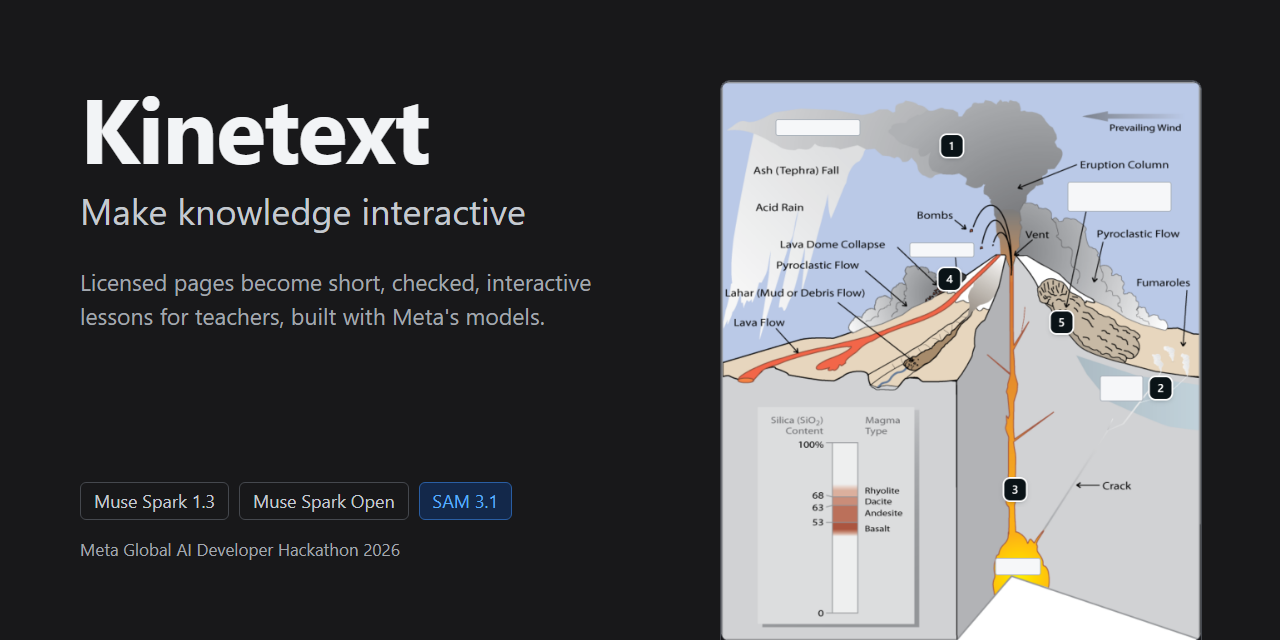
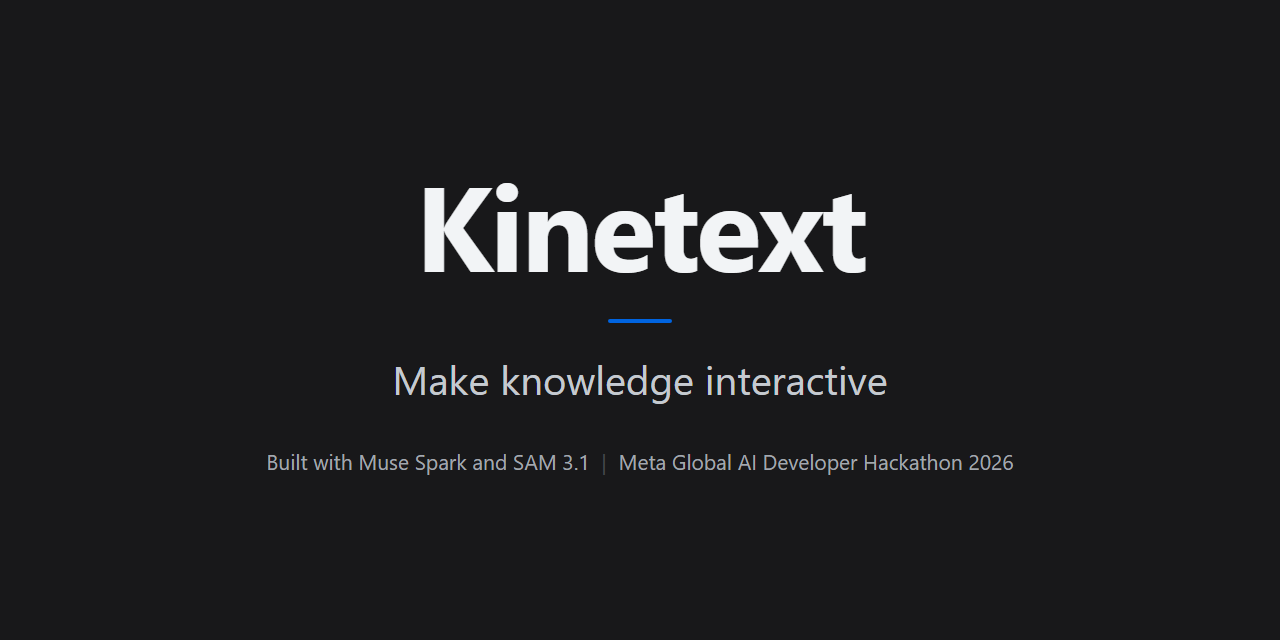
brand: simpler social preview card, name and tagline only

diff --git a/docs/brand/social-preview.html b/docs/brand/social-preview.html
@@ -5,50 +5,35 @@
 <title>Kinetext social preview (1280x640)</title>
 <!--
   GitHub social preview card. Render: headless Chrome at 1280x640 (see README in this folder).
-  Safe area: everything that matters sits inside an 80 px inset (GitHub's 40 pt guide at 2x), so no crop cuts it.
-  Colours and type are the app's own tokens (apps/web/src/styles.css, dark theme). The figure is a real capture of a
-  published lesson's Label the diagram part (USGS volcano hazards sketch, U.S. public domain, graphic by Bobbie Myers).
+  Safe area: everything sits inside an 80 px inset (GitHub's 40 pt guide at 2x), so no crop cuts it; ?guide shows it.
+  Colours and type are the app's own dark-theme tokens (apps/web/src/styles.css).
 -->
 <style>
   :root {
-    --chrome: #18181a; --panel: #1a1a1d; --panel-2: #26272a;
-    --ink: #f2f4f6; --ink-2: #c5cad0; --ink-3: #a3a8af;
-    --line: #2c2e32; --line-2: #45484e; --accent-text: #5aaefb; --accent-line: #2a5ea3; --accent-soft: #13284a;
+    --chrome: #18181a; --ink: #f2f4f6; --ink-2: #c5cad0; --ink-3: #a3a8af; --line-2: #45484e;
+    --accent: #0064e0;
     --font: system-ui, -apple-system, "Segoe UI", Helvetica, Arial, sans-serif;
   }
   html, body { margin: 0; width: 1280px; height: 640px; overflow: hidden; background: var(--chrome); }
   body { position: relative; font-family: var(--font); color: var(--ink); -webkit-font-smoothing: antialiased; }
-  .text { position: absolute; left: 80px; top: 80px; width: 600px; height: 480px; display: flex; flex-direction: column; }
-  .name { margin: 0; font-size: 92px; line-height: 1; font-weight: 700; letter-spacing: -0.02em; }
-  .tagline { margin: 18px 0 0; font-size: 36px; line-height: 1.15; font-weight: 400; color: var(--ink-2); }
-  .what { margin: 34px 0 0; font-size: 23px; line-height: 1.45; color: var(--ink-3); max-width: 560px; }
-  .models { margin: auto 0 0; display: flex; gap: 10px; flex-wrap: wrap; }
-  .chip { font-size: 18px; line-height: 1; padding: 9px 13px; border: 1px solid var(--line-2); border-radius: 6px; color: var(--ink-2); }
-  .chip.sam { border-color: var(--accent-line); background: var(--accent-soft); color: var(--accent-text); }
-  .event { margin: 18px 0 0; font-size: 17px; color: var(--ink-3); }
-  /* The figure: inside the safe area at the top, allowed to run off the bottom edge (decoration only there). */
-  .figure { position: absolute; left: 720px; top: 80px; width: 480px; height: 560px; overflow: hidden;
-    border: 1px solid var(--line-2); border-bottom: 0; border-radius: 10px 10px 0 0; background: #c9d6ea; }
-  .figure img { display: block; width: 100%; height: 100%; object-fit: cover; object-position: center top; }
-  /* Optional guide overlay (?guide) to check the 80 px safe area. */
+  .card { position: absolute; inset: 80px; display: flex; flex-direction: column; align-items: center; justify-content: center; text-align: center; }
+  .name { margin: 0; font-size: 120px; line-height: 1; font-weight: 700; letter-spacing: -0.025em; }
+  .rule { width: 64px; height: 4px; margin: 36px 0 32px; background: var(--accent); border-radius: 2px; }
+  .tagline { margin: 0; font-size: 40px; line-height: 1.2; font-weight: 400; color: var(--ink-2); }
+  .meta { margin: 44px 0 0; font-size: 21px; line-height: 1.4; color: var(--ink-3); }
+  .meta .sep { margin: 0 12px; color: var(--line-2); }
   .guide { display: none; position: absolute; inset: 0; pointer-events: none;
     box-shadow: inset 0 0 0 80px rgba(220, 40, 60, 0.18); outline: 2px solid rgba(220, 40, 60, 0.8); outline-offset: -80px; }
   body.show-guide .guide { display: block; }
 </style>
 </head>
 <body>
-  <div class="text">
+  <div class="card">
     <h1 class="name">Kinetext</h1>
+    <div class="rule" aria-hidden="true"></div>
     <p class="tagline">Make knowledge interactive</p>
-    <p class="what">Licensed pages become short, checked, interactive lessons for teachers, built with Meta's models.</p>
-    <div class="models">
-      <span class="chip">Muse Spark 1.3</span>
-      <span class="chip">Muse Spark Open</span>
-      <span class="chip sam">SAM 3.1</span>
-    </div>
-    <p class="event">Meta Global AI Developer Hackathon 2026</p>
+    <p class="meta">Built with Muse Spark and SAM 3.1<span class="sep">|</span>Meta Global AI Developer Hackathon 2026</p>
   </div>
-  <div class="figure"><img src="volcano-label-diagram.png" alt=""></div>
   <div class="guide"></div>
   <script>if (location.search.includes('guide')) document.body.classList.add('show-guide');</script>
 </body>

diff --git a/docs/brand/README.md b/docs/brand/README.md
@@ -2,10 +2,8 @@
 
 - `social-preview.png`: the GitHub social preview card, 1280 × 640. Upload it in the repository's
   **Settings → General → Social preview → Edit → Upload an image**.
-- `social-preview.html`: its source. Everything that matters sits inside an 80 px inset (GitHub's 40 pt guide at 2×);
-  open it with `?guide` to see that safe area. Colours and type are the app's own dark-theme tokens.
-- `volcano-label-diagram.png`: the figure on the card, captured from a published lesson's Label the diagram part.
-  The sketch is from USGS Fact Sheet 002-97 (U.S. Geological Survey, graphic by Bobbie Myers; U.S. public domain).
+- `social-preview.html`: its source. Everything sits inside an 80 px inset (GitHub's 40 pt guide at 2×); open it
+  with `?guide` to see that safe area. Colours and type are the app's own dark-theme tokens.
 
 Re-render the card after editing the HTML (Windows, from this folder):
 
